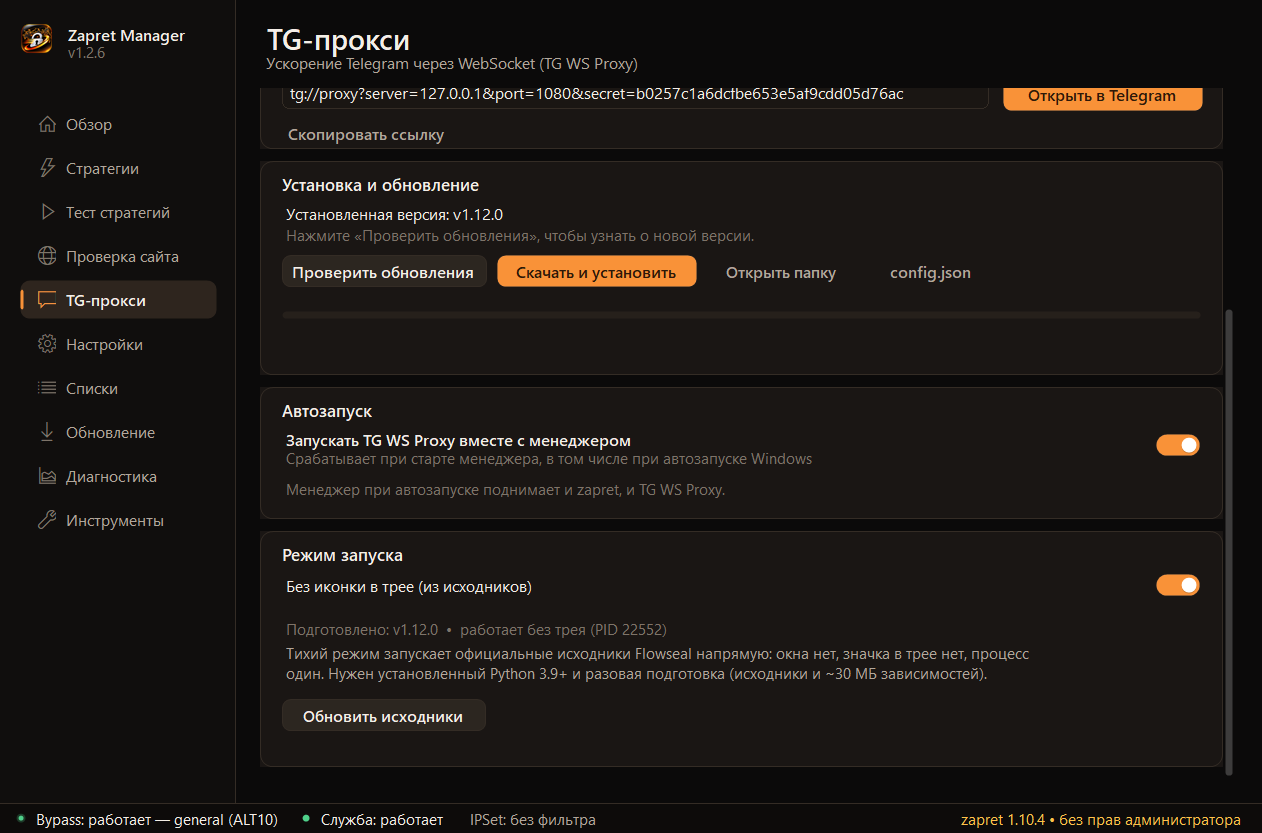
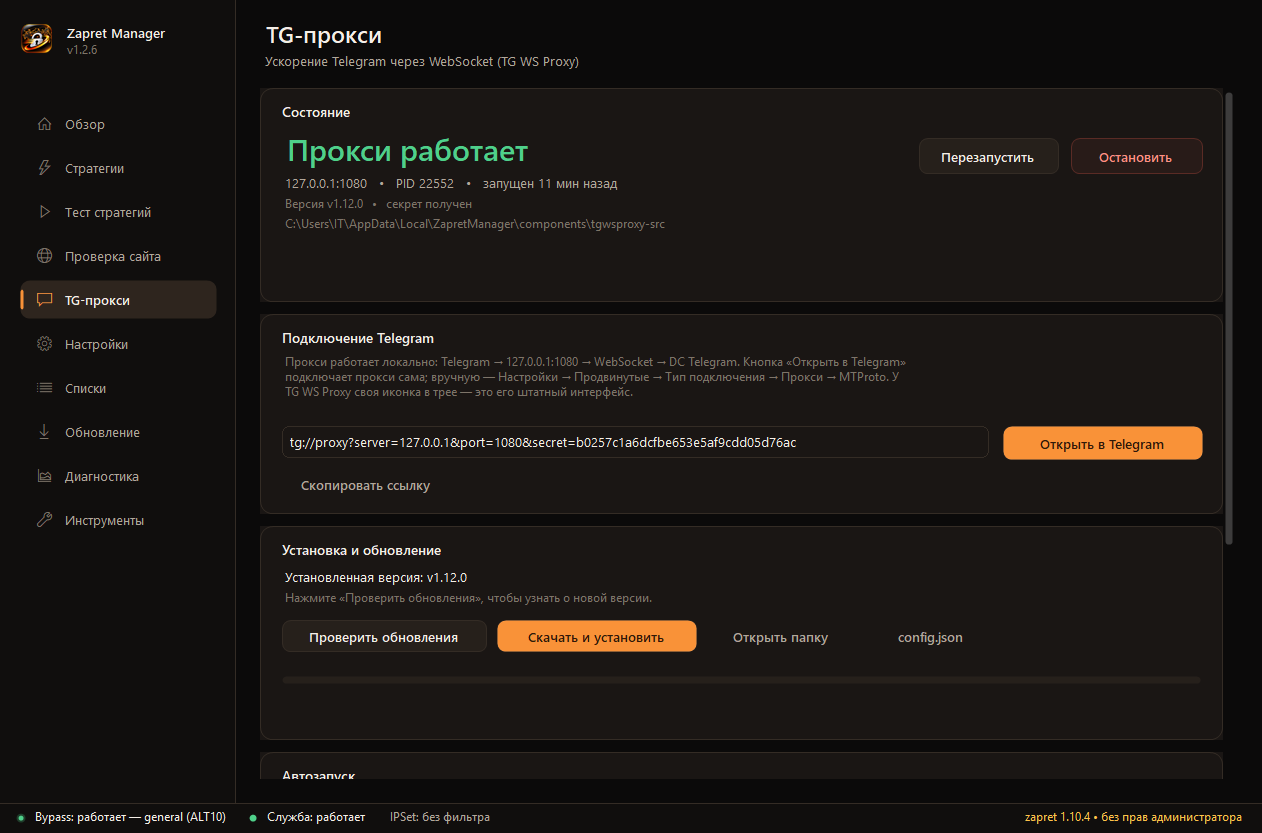
TG-прокси: описание больше не наезжает на кнопку «Открыть в Telegram», порт в тексте берётся из конфига

diff --git a/src/PageTgProxy.cs b/src/PageTgProxy.cs
@@ -21,6 +21,7 @@ namespace ZapretManager
         private RoundButton _btnRestart;
 
         private InputBox _linkBox;
+        private Label _linkHint;
         private RoundButton _btnTgOpen;
         private RoundButton _btnTgCopy;
 
@@ -96,12 +97,13 @@ namespace ZapretManager
 
         private void BuildLinkCard()
         {
-            _linkCard = NewCard("Подключение Telegram", 168);
-            _linkCard.Controls.Add(WrapLabel("Прокси работает локально: Telegram → 127.0.0.1:1443 → WebSocket → DC Telegram. Кнопка «Открыть в Telegram» подключает прокси автоматически; вручную — Настройки → Продвинутые → Тип подключения → Прокси → MTProto. У самого TG WS Proxy есть своя иконка в трее — это его штатный интерфейс (логи, настройки, ссылка).",
-                Theme.Small, Theme.TextMuted, 22, 40, DesignWidth - 60));
+            _linkCard = NewCard("Подключение Telegram", 200);
+            _linkHint = WrapLabel("Прокси работает локально: Telegram → 127.0.0.1:1443 → WebSocket → DC Telegram. Кнопка «Открыть в Telegram» подключает прокси сама; вручную — Настройки → Продвинутые → Тип подключения → Прокси → MTProto. У TG WS Proxy своя иконка в трее — это его штатный интерфейс.",
+                Theme.Small, Theme.TextMuted, 22, 40, DesignWidth - 250);
+            _linkCard.Controls.Add(_linkHint);
 
             _linkBox = new InputBox();
-            _linkBox.Location = new Point(22, 96);
+            _linkBox.Location = new Point(22, 112);
             _linkBox.Width = DesignWidth - 44 - 200 - 12;
             _linkBox.Anchor = AnchorStyles.Top | AnchorStyles.Left | AnchorStyles.Right;
             _linkBox.Box.ReadOnly = true;
@@ -109,18 +111,17 @@ namespace ZapretManager
 
             _btnTgOpen = Btn("Открыть в Telegram", ButtonKind.Primary, 200);
             _btnTgOpen.Anchor = AnchorStyles.Top | AnchorStyles.Right;
-            _btnTgOpen.Location = new Point(DesignWidth - 20 - 200, 96);
+            _btnTgOpen.Location = new Point(DesignWidth - 20 - 200, 112);
             _btnTgOpen.Height = 34;
             _btnTgOpen.Click += delegate { OpenInTelegram(); };
             _linkCard.Controls.Add(_btnTgOpen);
 
             _btnTgCopy = Btn("Скопировать ссылку", ButtonKind.Ghost, 170);
-            _btnTgCopy.Location = new Point(22, 136);
+            _btnTgCopy.Location = new Point(22, 154);
             _btnTgCopy.Click += delegate { CopyLink(); };
             _linkCard.Controls.Add(_btnTgCopy);
             View.Stack.Add(_linkCard);
         }
-
         private void BuildUpdateCard()
         {
             _updateCard = NewCard("Установка и обновление", 214);
@@ -501,7 +502,13 @@ namespace ZapretManager
                     ? "TG WS Proxy не установлен"
                     : (st.Link.Length > 0 ? st.Link : "Секрет появится после первого запуска прокси");
                 _btnTgOpen.Enabled = st.Installed;
-                _btnTgCopy.Enabled = st.Link.Length > 0;
+                        _btnTgCopy.Enabled = st.Link.Length > 0;
+            if (_linkHint != null)
+            {
+                _linkHint.Text = string.Format("Прокси работает локально: Telegram → {0}:{1} → WebSocket → DC Telegram. Кнопка «Открыть в Telegram» подключает прокси сама; вручную — Настройки → Продвинутые → Тип подключения → Прокси → MTProto. У TG WS Proxy своя иконка в трее — это его штатный интерфейс.",
+                    st.Host, st.Port);
+                _linkHint.Height = TextRenderer.MeasureText(_linkHint.Text, _linkHint.Font, new Size(_linkHint.Width, 2000), TextFormatFlags.WordBreak).Height + 4;
+            }
 
                 _versionLine.Text = st.Installed
                     ? string.Format("Установленная версия: {0}", st.Version.Length > 0 ? st.Version : "неизвестна")
